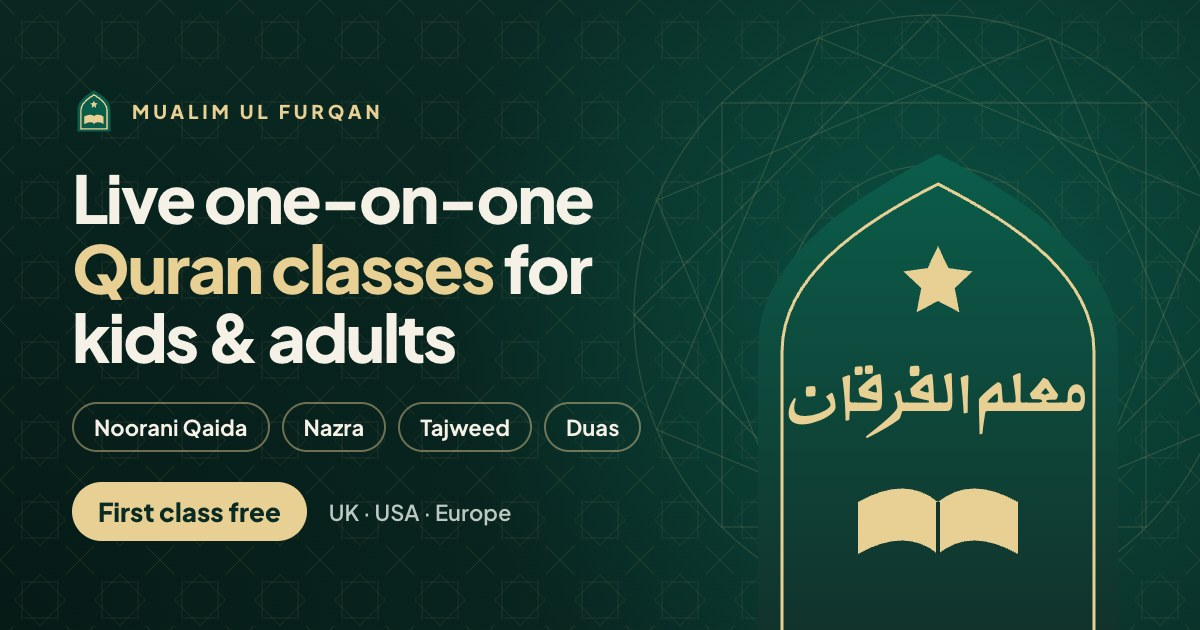
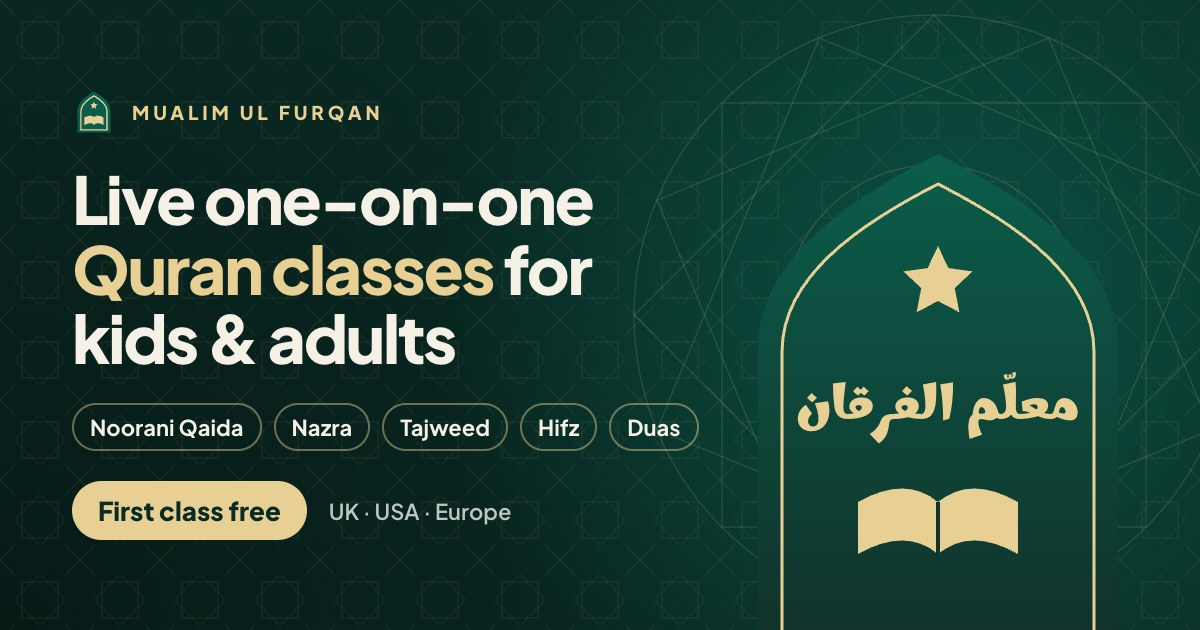
Refresh Arabic branding and social preview
Switch the Arabic wordmark to Marhey, update the Open Graph image styling and course list, and refine the Hadith band layout and typography.

diff --git a/src/features/hadith/HadithBand.tsx b/src/features/hadith/HadithBand.tsx
@@ -6,25 +6,27 @@ export function HadithBand() {
       <Container>
         <Reveal
           as="figure"
-          className="relative m-0 flex flex-col items-center gap-5 overflow-hidden rounded-[40px] bg-gradient-to-br from-[#fff3dc] via-[#fffaf0] to-[#e9f7f0] px-6 py-16 text-center sm:py-20"
+          className="relative m-0 flex flex-col items-center gap-6 overflow-hidden rounded-[40px] bg-gradient-to-br from-[#fff3dc] via-[#fffaf0] to-[#e9f7f0] px-6 py-14 text-center sm:py-20"
         >
           <span
             aria-hidden
-            className="text-gold-deep/25 absolute -top-10 left-6 font-serif text-[220px] leading-none select-none sm:left-14"
+            className="text-gold-deep shadow-card font-display flex size-14 items-center justify-center rounded-full bg-white pt-4 text-[48px] leading-none font-bold select-none"
           >
             “
           </span>
           <p
             lang="ar"
             dir="rtl"
-            className="font-naskh text-brand relative text-[clamp(32px,4.6vw,58px)] leading-[1.8] font-bold"
+            className="font-naskh text-brand max-w-[900px] text-[clamp(30px,4.2vw,50px)] leading-[1.9] font-normal"
           >
             خَيْرُكُمْ مَنْ تَعَلَّمَ الْقُرْآنَ وَعَلَّمَهُ
           </p>
-          <blockquote className="font-display relative m-0 max-w-[720px] text-[clamp(24px,2.8vw,36px)] leading-[1.2] font-semibold tracking-[-0.02em] text-balance">
-            “The best of you are those who learn the Quran <em className="text-brand">and teach it.</em>”
+          <span aria-hidden className="bg-gold-deep/40 h-px w-16" />
+          <blockquote className="font-display m-0 max-w-[760px] text-[clamp(24px,2.8vw,36px)] leading-[1.25] font-semibold tracking-[-0.02em] text-balance">
+            “The best of you are those who learn the Quran{' '}
+            <em className="text-brand not-italic">and teach it.</em>”
           </blockquote>
-          <figcaption className="text-bronze relative rounded-full bg-white px-4 py-1.5 text-[13px] font-bold">
+          <figcaption className="text-bronze rounded-full bg-white px-4 py-1.5 text-[13px] font-bold">
             Prophet Muhammad, peace be upon him · Sahih al-Bukhari
           </figcaption>
         </Reveal>

diff --git a/scripts/og-image/template.html b/scripts/og-image/template.html
@@ -9,7 +9,7 @@
     <meta charset="UTF-8" />
     <link
       rel="stylesheet"
-      href="https://fonts.googleapis.com/css2?family=Ruwudu:wght@700&family=Plus+Jakarta+Sans:wght@600;700;800&display=block"
+      href="https://fonts.googleapis.com/css2?family=Marhey:wght@700&family=Plus+Jakarta+Sans:wght@600;700;800&display=block"
     />
     <style>
       :root {
@@ -88,7 +88,7 @@
         list-style: none;
       }
       .courses li {
-        padding: 9px 20px;
+        padding: 8px 16px;
         border: 2px solid rgb(232 207 148 / 0.45);
         border-radius: 999px;
         color: var(--cream);
@@ -130,8 +130,8 @@
         position: relative;
         margin-top: 34px;
         color: var(--gold);
-        font-family: 'Ruwudu', serif;
-        font-size: 60px;
+        font-family: 'Marhey', serif;
+        font-size: 50px;
         font-weight: 700;
         line-height: 1.5;
       }
@@ -186,6 +186,7 @@
           <li>Noorani Qaida</li>
           <li>Nazra</li>
           <li>Tajweed</li>
+          <li>Hifz</li>
           <li>Duas</li>
         </ul>
         <div class="offer">
@@ -219,7 +220,7 @@
           />
           <path d="M190 352V404" stroke="#11332C" stroke-width="4" />
         </svg>
-        <p class="name" lang="ar" dir="rtl">معلم الفرقان</p>
+        <p class="name" lang="ar" dir="rtl">معلّم الفرقان</p>
       </div>
     </main>
   </body>

diff --git a/src/components/brand/Logo.tsx b/src/components/brand/Logo.tsx
@@ -8,7 +8,7 @@ interface LogoProps {
   className?: string;
 }
 
-/** Horizontal lockup: mark + Diwani Arabic name over the Latin name, both set to the same width. */
+/** Horizontal lockup: mark + Arabic wordmark over the Latin name, both set to the same width. */
 export function Logo({ tone = 'light', size = 'md', className }: LogoProps) {
   const dark = tone === 'dark';
   return (
@@ -19,7 +19,7 @@ export function Logo({ tone = 'light', size = 'md', className }: LogoProps) {
           lang="ar"
           dir="rtl"
           className={cn(
-            'font-diwani -mb-1 text-center leading-[1.45] font-bold',
+            'font-logo -mb-1 text-center leading-[1.45] font-bold',
             size === 'lg' ? 'text-[29px]' : 'text-[26px]',
             dark ? 'text-gold' : 'text-brand',
           )}

diff --git a/src/styles/globals.css b/src/styles/globals.css
@@ -10,7 +10,8 @@
   --font-serif: Georgia, 'Times New Roman', ui-serif, serif;
   --font-quran: 'Amiri Quran', 'Amiri', serif;
   --font-naskh: 'Amiri', serif;
-  --font-diwani: 'Ruwudu', 'Amiri', serif;
+  /* Brand wordmark: bold, rounded Arabic display (logo, footer, booking card). */
+  --font-logo: 'Marhey', 'Amiri', serif;
 
   /* Dark surfaces (classroom panel, footer) */
   --color-night: #0b2a23;
@@ -157,7 +158,7 @@
     letter-spacing: -0.025em;
   }
   /* Accent words in headings: same font, upright, in brand colour (SectionHeading switches to gold on dark). */
-  :where(h1, h2, h3) em {
+  :where(h1, h2, h3, blockquote) em {
     font-style: normal;
     color: var(--color-brand);
   }

diff --git a/index.html b/index.html
@@ -33,7 +33,7 @@
     <link rel="preconnect" href="https://fonts.gstatic.com" crossorigin />
     <link
       rel="stylesheet"
-      href="https://fonts.googleapis.com/css2?family=Amiri:wght@400;700&family=Amiri+Quran&family=Ruwudu:wght@400;700&family=Outfit:wght@500..800&family=Plus+Jakarta+Sans:wght@400;500;600;700;800&display=swap"
+      href="https://fonts.googleapis.com/css2?family=Amiri:wght@400;700&family=Amiri+Quran&family=Marhey:wght@500..700&family=Outfit:wght@500..800&family=Plus+Jakarta+Sans:wght@400;500;600;700;800&display=swap"
     />
 
     <script type="application/ld+json">

diff --git a/src/config/site.ts b/src/config/site.ts
@@ -7,7 +7,7 @@ import { env } from './env';
  */
 export const site = {
   name: 'Mualim Ul Furqan',
-  /** Logo lockup: shadda only, so the Diwani letterforms stay clean at small sizes. */
+  /** Logo lockup: shadda only, so the wordmark stays clean at small sizes. */
   arabicName: 'معلّم الفرقان',
   /** Fully vocalised name for large display (booking card, footer). */
   arabicNameFull: 'مُعَلِّمُ الْفُرْقَانِ',

diff --git a/src/features/booking/BookingSection.tsx b/src/features/booking/BookingSection.tsx
@@ -25,7 +25,7 @@ export function BookingSection() {
             <span
               lang="ar"
               dir="rtl"
-              className="font-diwani text-brand self-start text-[42px] leading-[1.6] font-bold"
+              className="font-logo text-brand self-start text-[42px] leading-[1.6] font-bold"
             >
               {site.arabicNameFull}
             </span>
